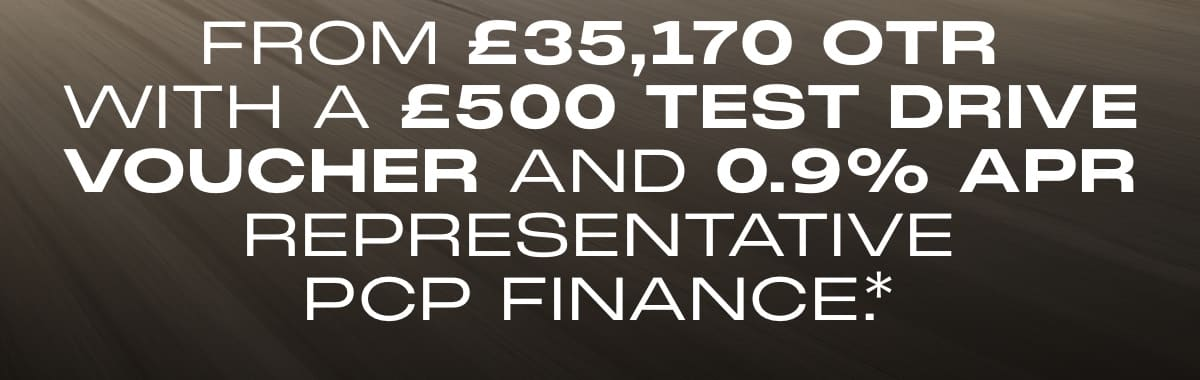
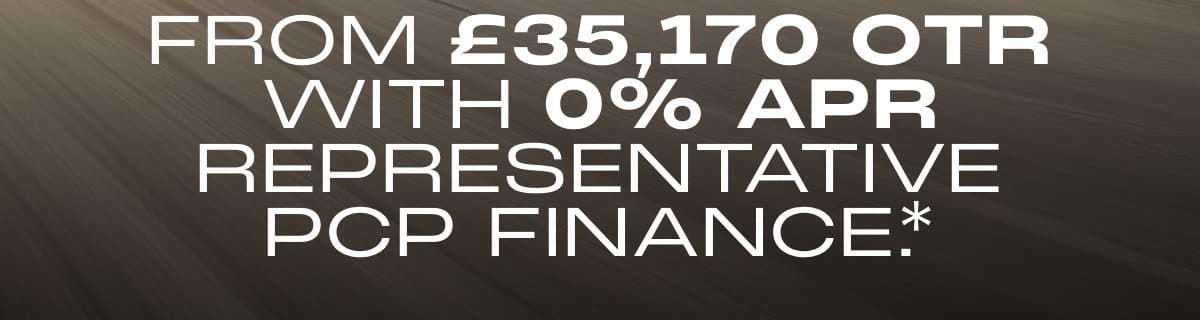
update

Changed region(s): [[0.0308, 0.0312, 0.9558, 0.8438]]

diff --git a/complete/omoda/JAECOO 7 SHS Plug Q3 2026 Offer Email/index.html b/complete/omoda/JAECOO 7 SHS Plug Q3 2026 Offer Email/index.html
@@ -87,7 +87,7 @@
     
       <!-- Preheader -->
       <div style="display: none; max-height: 0px; overflow: hidden;">
-        Break free and go further with the JAECOO 7 SHS, from £35,170 OTR with 0% APR Representative PCP Finance.
+        Experience hybrid freedom in the JAECOO 7 SHS, from £35,170 OTR with 0% APR Representative PCP Finance.
         &nbsp;&zwnj;&nbsp;&zwnj;&nbsp;&zwnj;&nbsp;&zwnj;&nbsp;&zwnj;&nbsp;&zwnj;&nbsp;&zwnj;&nbsp;&zwnj;&nbsp;&zwnj;&nbsp;&zwnj;&nbsp;&zwnj;&nbsp;&zwnj;&nbsp;&zwnj;&nbsp;&zwnj;&nbsp;&zwnj;&nbsp;&zwnj;&nbsp;&zwnj;&nbsp;&zwnj;&nbsp;&zwnj;&nbsp;&zwnj;&nbsp;&zwnj;&nbsp;&zwnj;&nbsp;&zwnj;&nbsp;&zwnj;&nbsp;&zwnj;&nbsp;&zwnj;&nbsp;&zwnj;&nbsp;&zwnj;&nbsp;&zwnj;&nbsp;&zwnj;&nbsp;&zwnj;&nbsp;&zwnj;&nbsp;&zwnj;&nbsp;&zwnj;&nbsp;&zwnj;&nbsp;&zwnj;&nbsp;&zwnj;&nbsp;&zwnj;&nbsp;&zwnj;&nbsp;&zwnj;&nbsp;&zwnj;&nbsp;&zwnj;&nbsp;&zwnj;&nbsp;&zwnj;&nbsp;&zwnj;&nbsp;&zwnj;&nbsp;&zwnj;&nbsp;&zwnj;&nbsp;&zwnj;&nbsp;&zwnj;&nbsp;&zwnj;&nbsp;&zwnj;&nbsp;&zwnj;&nbsp;&zwnj;&nbsp;&zwnj;&nbsp;&zwnj;&nbsp;&zwnj;&nbsp;&zwnj;&nbsp;&zwnj;&nbsp;&zwnj;&nbsp;&zwnj;&nbsp;&zwnj;&nbsp;&zwnj;&nbsp;&zwnj;&nbsp;&zwnj;&nbsp;&zwnj;&nbsp;&zwnj;&nbsp;&zwnj;&nbsp;&zwnj;&nbsp;&zwnj;&nbsp;&zwnj;&nbsp;&zwnj;&nbsp;&zwnj;&nbsp;&zwnj;&nbsp;&zwnj;&nbsp;&zwnj;&nbsp;&zwnj;&nbsp;&zwnj;&nbsp;&zwnj;&nbsp;&zwnj;&nbsp;&zwnj;&nbsp;&zwnj;&nbsp;&zwnj;&nbsp;&zwnj;&nbsp;&zwnj;&nbsp;&zwnj;&nbsp;&zwnj;&nbsp;&zwnj;&nbsp;&zwnj;&nbsp;&zwnj;&nbsp;&zwnj;&nbsp;&zwnj;&nbsp;&zwnj;&nbsp;&zwnj;&nbsp;&zwnj;&nbsp;&zwnj;&nbsp;&zwnj;&nbsp;&zwnj;&nbsp;&zwnj;&nbsp;&zwnj;&nbsp;&zwnj;&nbsp;&zwnj;&nbsp;&zwnj;&nbsp;&zwnj;&nbsp;&zwnj;&nbsp;&zwnj;&nbsp;&zwnj;&nbsp;&zwnj;&nbsp;&zwnj;&nbsp;&zwnj;&nbsp;&zwnj;&nbsp;&zwnj;&nbsp;&zwnj;&nbsp;&zwnj;&nbsp;&zwnj;&nbsp;&zwnj;&nbsp;&zwnj;&nbsp;&zwnj;&nbsp;&zwnj;&nbsp;&zwnj;&nbsp;&zwnj;&nbsp;&zwnj;&nbsp;&zwnj;&nbsp;&zwnj;&nbsp;&zwnj;&nbsp;&zwnj;&nbsp;&zwnj;&nbsp;&zwnj;&nbsp;&zwnj;&nbsp;&zwnj;&nbsp;&zwnj;&nbsp;&zwnj;&nbsp;&zwnj;&nbsp;&zwnj;&nbsp;&zwnj;&nbsp;&zwnj;&nbsp;&zwnj;&nbsp;&zwnj;&nbsp;&zwnj;&nbsp;&zwnj;&nbsp;&zwnj;&nbsp;&zwnj;&nbsp;&zwnj;&nbsp;&zwnj;&nbsp;&zwnj;&nbsp;&zwnj;&nbsp;&zwnj;&nbsp;&zwnj;&nbsp;&zwnj;&nbsp;&zwnj;
       </div>
       <!-- !========== -->
@@ -126,9 +126,9 @@
                 <td align="center">
                   <img class="resp" align="center" src="images/hero-img.jpg" alt="JAECOO 7 SHS-P" width="600" border="0" style="display: block; width: 600px; max-width: 100%; height: auto; font-family: Calibri, Helvetica, Arial, sans-serif; font-size:22px; line-height: 22px; color:#ffffff; Margin: 0; font-weight: bold">
                   <h2 style="font-family: Calibri, Helvetica, Arial, sans-serif; font-size:22px; line-height: 22px; color:#ffffff; Margin: 0; font-weight: bold">
-                    <img class="resp hom" align="center" src="images/hero-h1-d.jpg" alt="From £35,170 OTR with a £500 Test Drive Voucher and 0.9% APR representative PCP finance*." width="600" border="0" style="display: block; width: 600px; max-width: 100%; height: auto">
+                    <img class="resp hom" align="center" src="images/hero-h1-d.jpg" alt="From £35,170 OTR with 0% APR representative PCP finance*." width="600" border="0" style="display: block; width: 600px; max-width: 100%; height: auto">
                     <!--[if !mso]><!-->
-                    <img class="resp som" align="center" src="images/hero-h1-d.jpg" alt="From £35,170 OTR with a £500 Test Drive Voucher and 0.9% APR representative PCP finance*." border="0" style="display: none; width: 100%; max-width: 100%;height: auto">
+                    <img class="resp som" align="center" src="images/hero-h1-d.jpg" alt="From £35,170 OTR with 0% APR representative PCP finance*." border="0" style="display: none; width: 100%; max-width: 100%;height: auto">
                     <!--<![endif]-->
                   </h2>
                 </td>
@@ -153,7 +153,7 @@
                 </td>
                 <td style="padding: 20px 30px 20px; mso-padding-alt: 40px 30px 20px 30px;" align="center">
                   <p style="font-family: Calibri, Helvetica, Arial, sans-serif; font-size: 16px; line-height: 24px; mso-line-height-rule: exactly; color: #ffffff; Margin: 0 0 16px 0;">Hello&nbsp;[Name],</p>
-                  <p style="font-family: Calibri, Helvetica, Arial, sans-serif; font-size: 16px; line-height: 24px; mso-line-height-rule: exactly; color: #ffffff; Margin: 0 0 16px 0;">Experience hybrid freedom in the JAECOO 7 SHS, from <strong>£35,170&nbsp;OTR</strong> with <strong>0.9% APR Representative PCP Finance</strong> and receive a <strong>£500 Test Drive Voucher</strong><sup style="font-size: 10px; line-height: 0; ">†</sup> towards your new&nbsp;vehicle.</p>
+                  <p style="font-family: Calibri, Helvetica, Arial, sans-serif; font-size: 16px; line-height: 24px; mso-line-height-rule: exactly; color: #ffffff; Margin: 0 0 16px 0;">Experience hybrid freedom in the JAECOO 7 SHS, from <strong>£35,170&nbsp;OTR</strong> with <strong>0% APR Representative PCP Finance</strong>.</p>
                   <p style="font-family: Calibri, Helvetica, Arial, sans-serif; font-size: 16px; line-height: 24px; mso-line-height-rule: exactly; color: #ffffff; Margin: 0 0 16px 0;">Our Advanced Super Hybrid System (SHS) offers seamless electric driving, remarkable efficiency and a range of up to 745 miles, so every journey goes further. With advanced technology and refined comfort, it’s built for every&nbsp;adventure.</p>
                   <p style="font-family: Calibri, Helvetica, Arial, sans-serif; font-size: 16px; line-height: 24px; mso-line-height-rule: exactly; color: #ffffff; Margin: 0 0 16px 0;">Take advantage of this amazing offer. Book a test drive&nbsp;today.</p>
                 </td>
@@ -248,57 +248,53 @@
                         <td style="padding: 10px; text-align: right;border-top: 1px solid #C7C7C7">£1,499.00</td>
                       </tr>
                       <tr style="background-color: #4D4D4F">
-                        <td class="" style="padding: 10px; border-right: 1px solid #C7C7C7;border-top: 1px solid #C7C7C7">Test Drive Voucher<sup style="font-size: 10px; line-height: 0; ">†</sup></td>
-                        <td class="" style="padding: 10px; text-align: right;border-top: 1px solid #C7C7C7">£500.00</td>
+                        <td style="padding: 10px; border-right: 1px solid #C7C7C7;border-top: 1px solid #C7C7C7">Total Deposit  </td>
+                        <td style="padding: 10px; text-align: right;border-top: 1px solid #C7C7C7">£1,499.00</td>
                       </tr>
                       <tr style="color: #fff;">
-                        <td style="padding: 10px; border-right: 1px solid #C7C7C7;border-top: 1px solid #C7C7C7">Total Deposit  </td>
-                        <td style="padding: 10px; text-align: right;border-top: 1px solid #C7C7C7">£1,999.00</td>
+                        <td class="" style="padding: 10px; border-right: 1px solid #C7C7C7;border-top: 1px solid #C7C7C7">Total Amount of Credit </td>
+                        <td class="" style="padding: 10px; text-align: right;border-top: 1px solid #C7C7C7">£33,671.00</td>
                       </tr>
                       <tr style="background-color: #4D4D4F">
-                        <td class="" style="padding: 10px; border-right: 1px solid #C7C7C7;border-top: 1px solid #C7C7C7">Total Amount of Credit </td>
-                        <td class="" style="padding: 10px; text-align: right;border-top: 1px solid #C7C7C7">£33,171.00</td>
-                      </tr>
-                      <tr style="color: #fff;">
                         <td style="padding: 10px; border-right: 1px solid #C7C7C7;border-top: 1px solid #C7C7C7">Agreement Term </td>
                         <td style="padding: 10px;text-align: right;border-top: 1px solid #C7C7C7">49 months</td>
                       </tr>
-                      <tr style="background-color: #4D4D4F">
+                      <tr style="color: #fff;">
                         <td class="" style="padding: 10px; border-right: 1px solid #C7C7C7;border-top: 1px solid #C7C7C7">Annual Mileage </td>
                         <td class="" style="padding: 10px; text-align: right;border-top: 1px solid #C7C7C7">6000 miles</td>
                       </tr>
-                      <tr style="color: #fff;">
+                      <tr style="background-color: #4D4D4F">
                         <td style="padding: 10px; border-right: 1px solid #C7C7C7;border-top: 1px solid #C7C7C7">Excess per mile </td>
                         <td style="padding: 10px; text-align: right;border-top: 1px solid #C7C7C7">11.0p</td>
                       </tr>
-                      <tr style="background-color: #4D4D4F">
+                      <tr style="color: #fff;">
                         <td class="" style="padding: 10px; border-right: 1px solid #C7C7C7;border-top: 1px solid #C7C7C7">Option to Purchase Fee  </td>
-                        <td class="" style="padding: 10px; text-align: right;border-top: 1px solid #C7C7C7">£1.00</td>
+                        <td class="" style="padding: 10px; text-align: right;border-top: 1px solid #C7C7C7">£0.00</td>
+                      </tr>
+                      <tr style="background-color: #4D4D4F">
+                        <td style="padding: 10px; border-right: 1px solid #C7C7C7;border-top: 1px solid #C7C7C7">Followed by 48 Payments </td>
+                        <td style="padding: 10px; text-align: right;border-top: 1px solid #C7C7C7">£393.66</td>
                       </tr>
                       <tr style="color: #fff;">
-                        <td style="padding: 10px; border-right: 1px solid #C7C7C7;border-top: 1px solid #C7C7C7">Followed by 48 Payments </td>
-                        <td style="padding: 10px; text-align: right;border-top: 1px solid #C7C7C7">£401.56</td>
-                      </tr>
-                      <tr style="background-color: #4D4D4F">
                         <td class="" style="padding: 10px; border-right: 1px solid #C7C7C7;border-top: 1px solid #C7C7C7">Optional Final Payment </td>
                         <td class="" style="padding: 10px; text-align: right;border-top: 1px solid #C7C7C7">£14,775.19</td>
                       </tr>
-                      <tr style="color: #fff;">
-                        <td style="padding: 10px; border-right: 1px solid #C7C7C7;border-top: 1px solid #C7C7C7;">Interest Charges </td>
-                        <td style="padding: 10px; text-align: right;border-top: 1px solid #C7C7C7">£879.07</td>
-                      </tr>
                       <tr style="background-color: #4D4D4F">
+                        <td style="padding: 10px; border-right: 1px solid #C7C7C7;border-top: 1px solid #C7C7C7;">Interest Charges </td>
+                        <td style="padding: 10px; text-align: right;border-top: 1px solid #C7C7C7">£0.00</td>
+                      </tr>
+                      <tr style="color: #fff;">
                         <td class="" style="padding: 10px; border-right: 1px solid #C7C7C7;border-top: 1px solid #C7C7C7; border-bottom: 1px solid #C7C7C7">Annual Fixed Interest Rate </td>
-                        <td class="" style="padding: 10px; text-align: right;border-top: 1px solid #C7C7C7; border-bottom: 1px solid #C7C7C7">0.90%</td>
+                        <td class="" style="padding: 10px; text-align: right;border-top: 1px solid #C7C7C7; border-bottom: 1px solid #C7C7C7">0.00%</td>
                       </tr>
                       
-                      <tr style="color: #fff;">
-                        <td style="padding: 10px; border-right: 1px solid #C7C7C7;border-top: 1px solid #C7C7C7; border-bottom: 1px solid #C7C7C7">APR Representative </td>
-                        <td style="padding: 10px; text-align: right;border-top: 1px solid #C7C7C7; border-bottom: 1px solid #C7C7C7">0.90%</td>
-                      </tr>
                       <tr style="background-color: #4D4D4F">
+                        <td style="padding: 10px; border-right: 1px solid #C7C7C7;border-top: 1px solid #C7C7C7; border-bottom: 1px solid #C7C7C7">APR Representative </td>
+                        <td style="padding: 10px; text-align: right;border-top: 1px solid #C7C7C7; border-bottom: 1px solid #C7C7C7">0.00%</td>
+                      </tr>
+                      <tr style="color: #fff;">
                         <td class="" style="padding: 10px; border-right: 1px solid #C7C7C7;border-top: 1px solid #C7C7C7; border-bottom: 1px solid #C7C7C7">Total Amount Payable </td>
-                        <td class="" style="padding: 10px; text-align: right;border-top: 1px solid #C7C7C7; border-bottom: 1px solid #C7C7C7">£36,050.07</td>
+                        <td class="" style="padding: 10px; text-align: right;border-top: 1px solid #C7C7C7; border-bottom: 1px solid #C7C7C7">£35,170.00</td>
                       </tr>
                       
                     </tbody>
@@ -435,7 +431,7 @@
                     *Terms and Conditions.
                   </h4>
                   <p style="font-family: Calibri, Helvetica, Arial, sans-serif; font-size:10px; color:#ffffff; mso-line-height-rule:exactly; line-height:16px; font-weight: normal; Margin: 0 0 10px" class="para hauto">
-                    Representative 0.9% APR, on JAECOO 7 1.5T PHEV Luxury 5dr&nbsp;Auto.
+                    Representative 0% APR, on JAECOO 7 1.5T PHEV Luxury 5dr&nbsp;Auto.
                   </p>
                   <p style="font-family: Calibri, Helvetica, Arial, sans-serif; font-size:10px; color:#ffffff; mso-line-height-rule:exactly; line-height:16px; font-weight: normal; Margin: 0 0 10px" class="para hauto">
                     Representative Example based on 6,000 miles per annum. Credit available subject to&nbsp;status.
@@ -450,10 +446,7 @@
                     With Personal Contract Purchase, once you have paid all of your regular monthly repayments you can either 1) Pay the Optional Final Repayment and own the car. 2) Part exchange the car for a new one (subject to settlement of your existing agreement, new agreements are subject to status). 3) Return the car to Creation without paying the optional final repayment. Providing you’ve not exceeded the maximum agreed mileage and the car is in good condition (fair wear and tear accepted) you will have nothing further to pay. If the vehicle has exceeded the maximum agreed mileage then a charge of 11.0p+ VAT per excess mile&nbsp;applies.
                   </p>
                   <p style="font-family: Calibri, Helvetica, Arial, sans-serif; font-size:10px; color:#ffffff; mso-line-height-rule:exactly; line-height:16px; font-weight: normal; Margin: 0 0 10px" class="para hauto">
-                    Offer available on eligible vehicle orders placed from 01/07/26 until withdrawn, subject to availability. OMODA &amp; JAECOO UK Limited reserves the right to amend or withdraw this offer without prior notice. Any such amendment or withdrawal will not affect finance agreements already entered&nbsp;into.
-                  </p>
-                  <p style="font-family: Calibri, Helvetica, Arial, sans-serif; font-size:10px; color:#ffffff; mso-line-height-rule:exactly; line-height:16px; font-weight: normal; Margin: 0 0 10px" class="para hauto">
-                    † Offer valid for private retail only upon taking a test drive. Not available to Fleet customer or Motability customers. The £500 (incl. VAT) is redeemable against the purchase of a new JAECOO 7 1.5T PHEV Luxury 5dr Auto on orders placed from 01/07/26 until withdrawn, subject to availability.. Offer can be used in conjunction with the 0.9% APR finance offer. Available at participating retailers only. This offer cannot be used in conjunction with any other promotions or discounts. For full details, please contact your local OMODA &amp; JAECOO dealer. OMODA &amp; JAECOO UK Limited reserves the right to amend or withdraw this offer at any time without prior&nbsp;notice.
+                    Offer available on eligible vehicle orders placed from 19/08/26 until withdrawn, subject to availability. OMODA &amp; JAECOO UK Limited reserves the right to amend or withdraw this offer without prior notice. Any such amendment or withdrawal will not affect finance agreements already entered&nbsp;into.
                   </p>
                   <p style="font-family: Calibri, Helvetica, Arial, sans-serif; font-size:10px; color:#ffffff; mso-line-height-rule:exactly; line-height:16px; font-weight: normal; Margin: 0 0 10px" class="para hauto">
                     <span style="color: magenta">{Insert your financial permissions here. This includes but is not limited to your credit broker statement and additi onal small print. Example of minimum criteria below. {Full legal entity name plus any trading name(s)} is a credit broker, not a lender {post code}. Finance provided by ** Finance Provider **, ** Finance Providers Postcode**. Finance subject to status, 18+ Ts &amp; Cs&nbsp;apply.}
